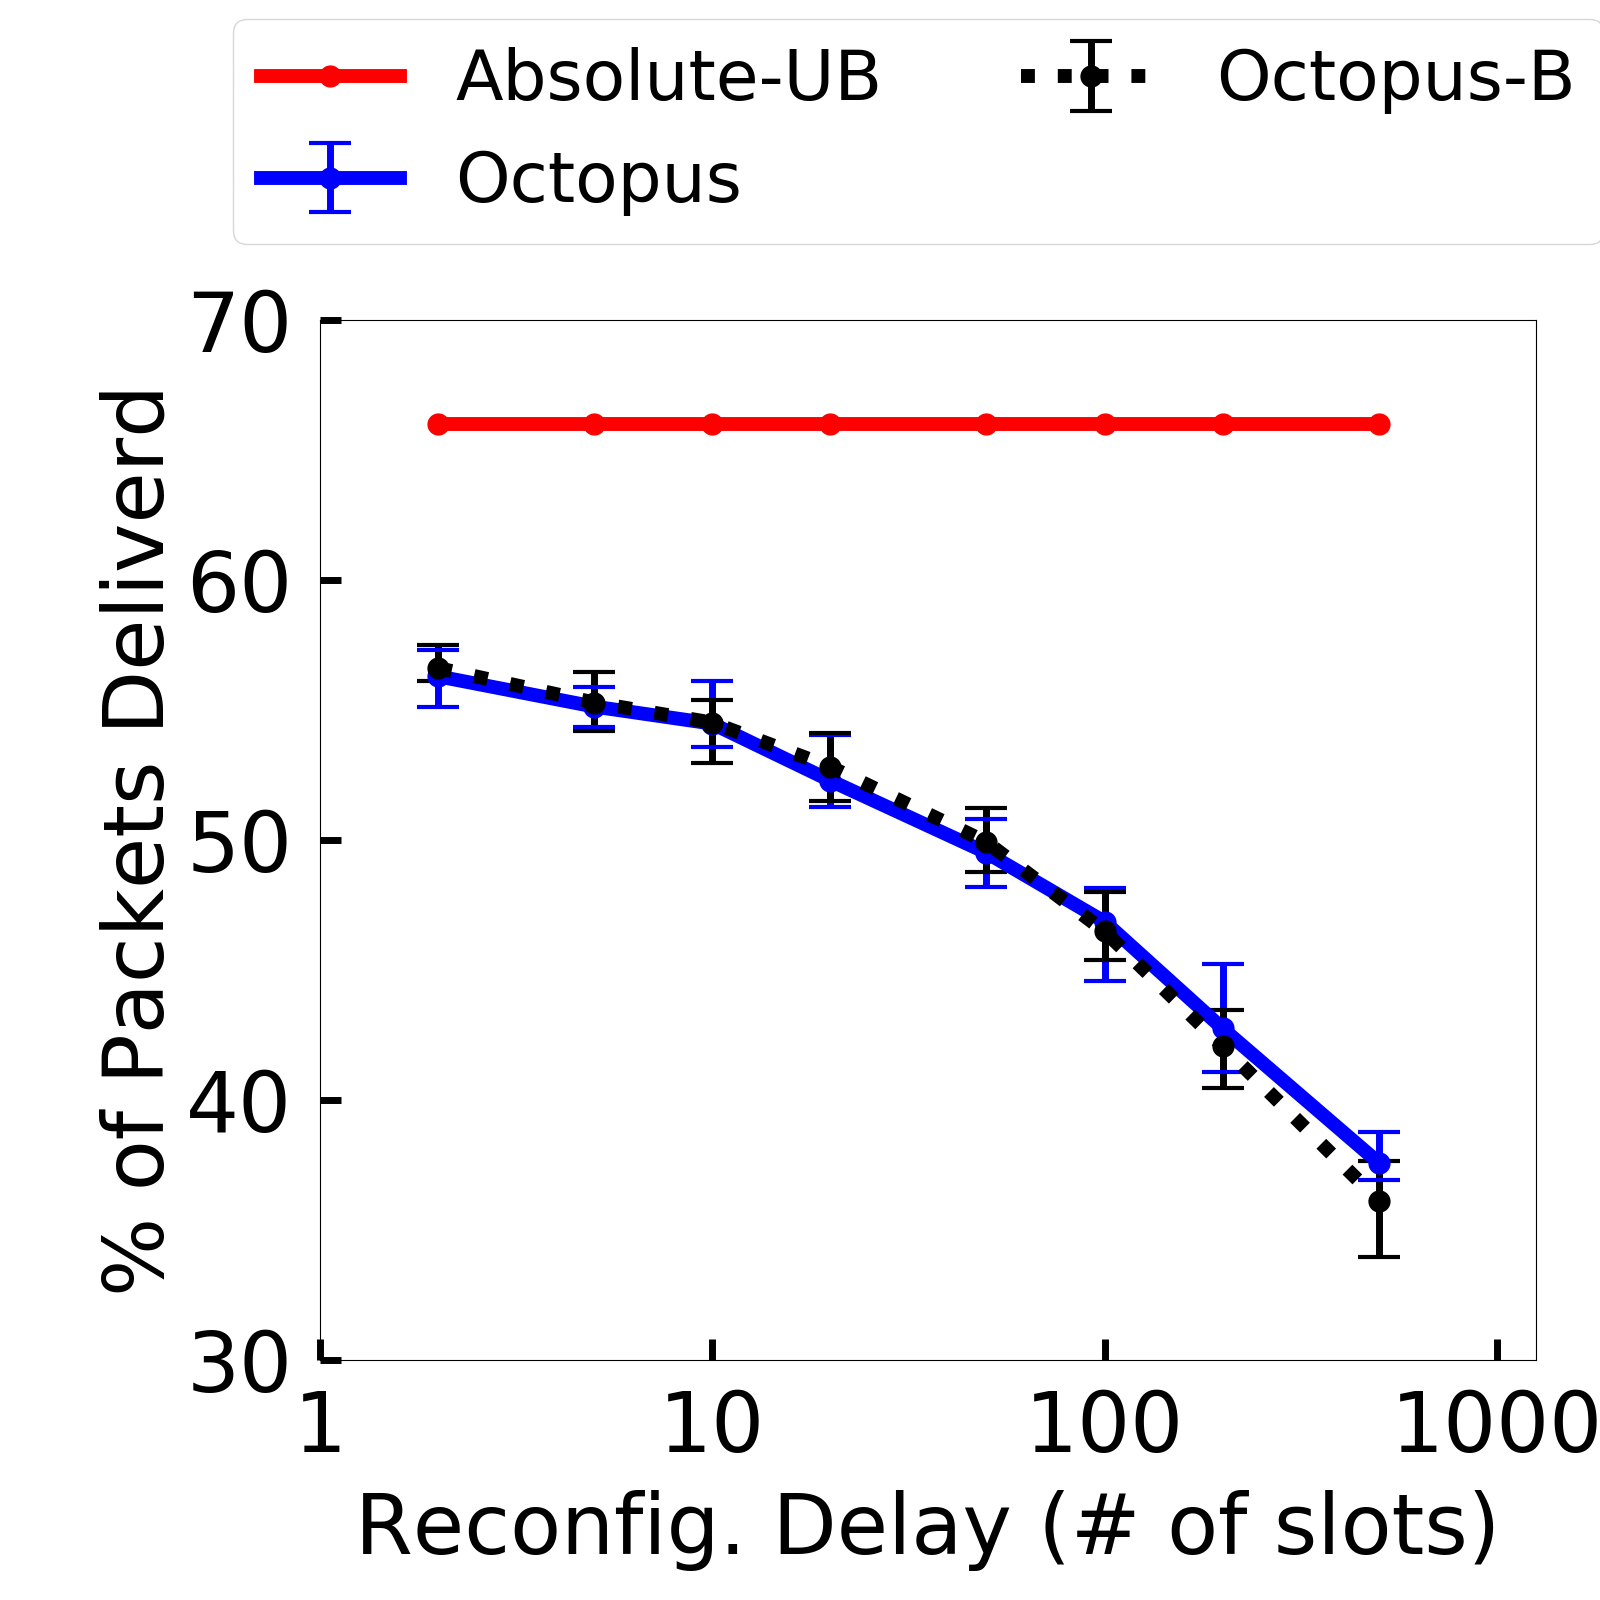
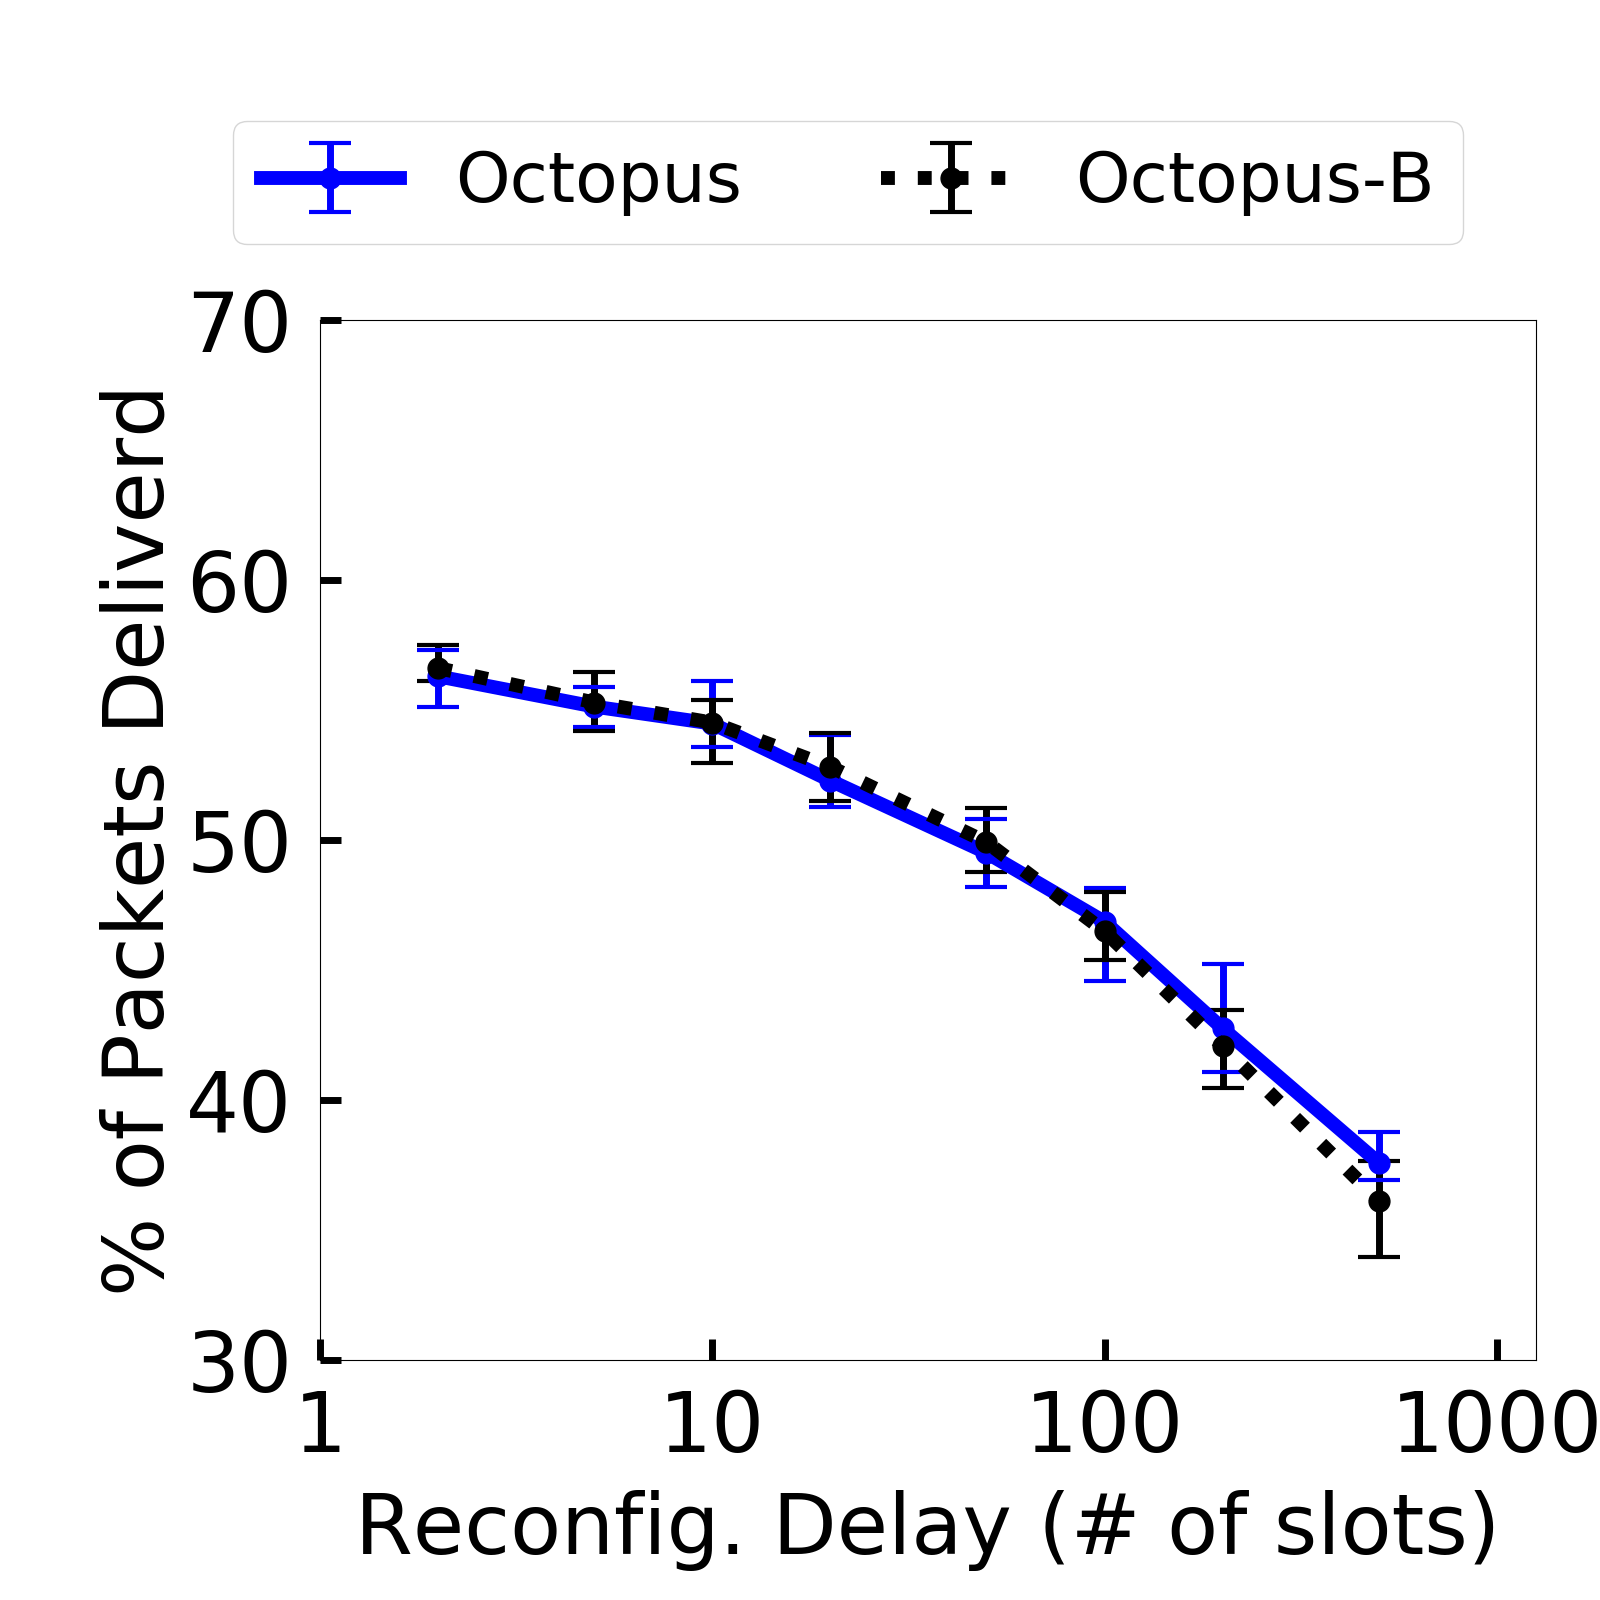
update plots.

diff --git a/plots.py b/plots.py
@@ -113,7 +113,7 @@ def plot_line(table, methods, filename=None, x_label=None, x_log=False, y_label=
 
 	if absolute_ub and y_label == '% of Packets Deliverd':
 		method = 'Absolute-UB'
-		if x_label != 'Average # of hops':
+		if x_label != 'Average # of hops' and ('Octopus-B' not in methods):
 			y = [66 for _ in X]	
 			plt.plot(X, y, linestyle=LINE[method], marker=MARKER[method], color=COLOR[method], label=method)
 		if x_label == 'Average # of hops':
@@ -168,7 +168,7 @@ def plot_line(table, methods, filename=None, x_label=None, x_log=False, y_label=
 	ax.tick_params(pad=20)
 
 	if x_label == '# of Nodes':
-		plt.xticks([25, 50, 100, 150, 200, 250, 300])
+		plt.xticks([50, 100, 150, 200, 250, 300])
 	if x_label:
 		ax.set_xlabel(x_label, labelpad=15)
 	if y_label:
@@ -505,8 +505,8 @@ if __name__ == '__main__':
 	# plot2_1(path)    # real traffic
 	# plot2_2(path)    # real traffic
 	# plot3(path)    # reconfig delta + objective value
-	plot4(path)    # reconfig delta + octopus+/R
+	# plot4(path)    # reconfig delta + octopus+/R
 	# plot5(path)    # average hop count
-	# plot_7(path)     # Octopus-B
+	plot_7(path)     # Octopus-B
 
 	# plot2_(path, 'real_traffic-10-merge')    # real traffic
